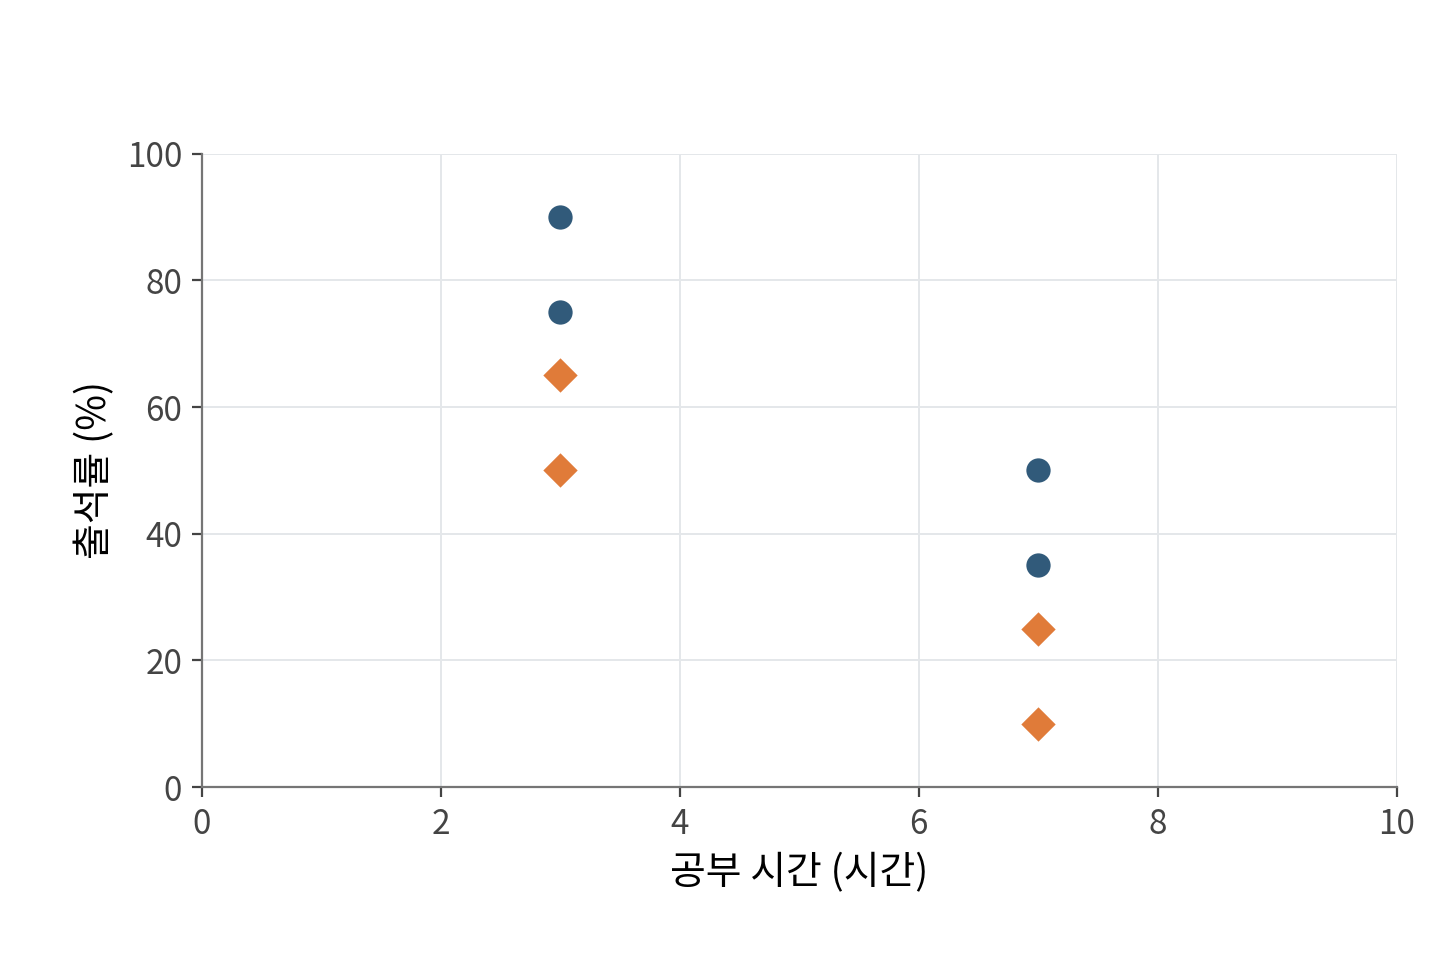
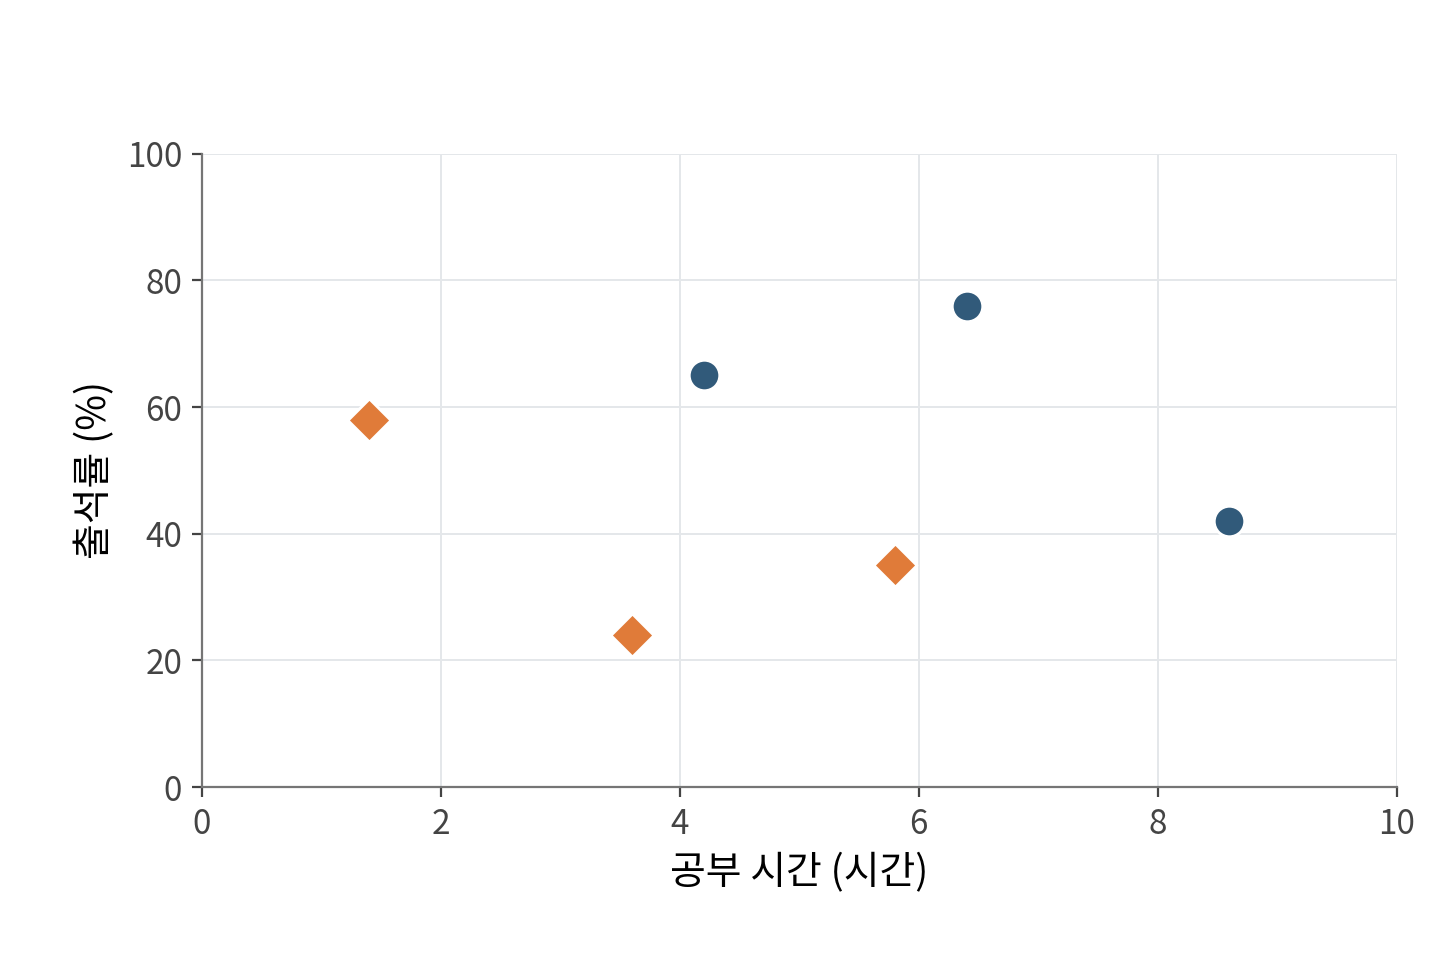
docs: spread six students across classification plots

diff --git a/scripts/figures/ch05_linear_classification.py b/scripts/figures/ch05_linear_classification.py
@@ -1,4 +1,4 @@
-"""학생 8명의 데이터와 유닛 스텝·시그모이드 분류 경계를 그린다.
+"""학생 6명의 데이터와 유닛 스텝·시그모이드 분류 경계를 그린다.
 
 실행: python3 scripts/figures/ch05_linear_classification.py
 동일한 점수 z = x1 + x2 / 10 - 10에서 unit step의 기준은 z=0,
@@ -43,7 +43,7 @@ def draw_data(ax):
         (PASS, "o", PASS_COLOR), (FAIL, "D", FAIL_COLOR)
     ):
         values = np.asarray(samples)
-        ax.scatter(values[:, 0], values[:, 1], s=95, marker=marker,
+        ax.scatter(values[:, 0], values[:, 1], s=120, marker=marker,
                    color=color, edgecolors="white", linewidths=1, zorder=3)
     ax.set(xlim=(0, 10), ylim=(0, 100), xticks=[0, 2, 4, 6, 8, 10],
            yticks=[0, 20, 40, 60, 80, 100],
@@ -91,7 +91,7 @@ if __name__ == "__main__":
     configure_font()
     OUT.mkdir(parents=True, exist_ok=True)
     DIAGRAMS.mkdir(parents=True, exist_ok=True)
-    # Keep the existing editable draw.io originals on the same eight students.
+    # Keep the editable draw.io originals on the same six students.
     perceptron(False)
     perceptron(True)
     save_single("perceptron-data")

diff --git a/scripts/figures/ch04_classification_drawio.py b/scripts/figures/ch04_classification_drawio.py
@@ -150,8 +150,8 @@ def frange(a, b, n):
 
 
 # 합격: (공부 시간, 출석률 %) / 불합격. 경계 출석률 = 100 - 10 × 공부 시간 으로 완벽히 갈린다.
-PASS = [(3, 75), (3, 90), (7, 35), (7, 50)]
-FAIL = [(3, 65), (3, 50), (7, 25), (7, 10)]
+PASS = [(4.2, 65), (6.4, 76), (8.6, 42)]
+FAIL = [(5.8, 35), (3.6, 24), (1.4, 58)]
 assert all(a > 100 - 10 * h for h, a in PASS) and all(a < 100 - 10 * h for h, a in FAIL)
 
 

diff --git a/site/src/content/notes/Machine Learning｜Deep Learning/deeplearning_05.md b/site/src/content/notes/Machine Learning｜Deep Learning/deeplearning_05.md
@@ -23,9 +23,9 @@ featured: false
 ## 2. 퍼셉트론으로 이진분류
 
 퍼셉트론을 사용하여 공부 시간과 출석률로 시험 합격(1)과 불합격(0)을 예측해 보겠습니다.
-입력노드 $x_1$에는 공부 시간과 $x_2$에는 출석률을 입력합니다. 학생 8명을 예시로 보겠습니다. 파란 원은 합격, 주황 마름모는 불합격입니다.
+입력노드 $x_1$에는 공부 시간과 $x_2$에는 출석률을 입력합니다. 학생 6명을 예시로 보겠습니다. 파란 원은 합격, 주황 마름모는 불합격입니다.
 
-<img src="../../../../public/images/notes/easy-deep-learning-ch04/perceptron-data.png" alt="공부 시간과 출석률 평면의 합격 학생 4명(파란 원)과 불합격 학생 4명(주황 마름모). 같은 공부 시간에서 경계에 가까운 학생과 먼 학생을 비교할 수 있는 산점도" loading="lazy" width="560" />
+<img src="../../../../public/images/notes/easy-deep-learning-ch04/perceptron-data.png" alt="공부 시간과 출석률 평면의 합격 학생 3명(파란 원)과 불합격 학생 3명(주황 마름모). 공부 시간과 출석률을 다르게 배치해 경계에 가까운 학생과 먼 학생을 구분한 산점도" loading="lazy" width="560" />
 
 퍼셉트론은 입력값들을 종합한 점수가 기준선(0)을 넘으면 1, 넘지 못하면 0으로 판정하는 **유닛 스텝 함수(Unit Step Function)** 를 사용합니다.
 <img src="../../../../public/images/notes/easy-deep-learning-ch04/unit-step.svg" alt="입력이 0보다 작으면 0, 0 이상이면 1을 출력하는 유닛 스텝 함수 그래프" loading="lazy" width="560" />
@@ -42,7 +42,7 @@ featured: false
 
 학생들의 데이터를 반복해서 확인하며 합격과 불합격을 나누는 경계를 찾습니다.
 
-<img src="../../../../public/images/notes/easy-deep-learning-ch04/perceptron-boundary.png" alt="학생 8명의 데이터에서 유닛 스텝의 보라색 분류 경계 직선이 합격 학생 4명과 불합격 학생 4명을 나누는 그래프" loading="lazy" width="560" />
+<img src="../../../../public/images/notes/easy-deep-learning-ch04/perceptron-boundary.png" alt="학생 6명의 데이터에서 유닛 스텝의 보라색 분류 경계 직선이 합격 학생 3명과 불합격 학생 3명을 나누는 그래프" loading="lazy" width="560" />
 
 ### 계단 함수의 한계
 
@@ -108,7 +108,7 @@ $$
 
 같은 점수식에서 유닛 스텝의 기준 $z=0$과 시그모이드의 기준 $p=0.5$는 같은 분류 경계를 만듭니다.
 
-<img src="../../../../public/images/notes/easy-deep-learning-ch04/unit-step-sigmoid-boundary.png" alt="같은 학생 8명과 점수식을 사용한 선형분류 비교. 왼쪽 유닛 스텝의 보라색 경계와 오른쪽 시그모이드의 초록색 경계가 같은 위치에서 합격과 불합격을 나눈다" loading="lazy" width="720" height="346" />
+<img src="../../../../public/images/notes/easy-deep-learning-ch04/unit-step-sigmoid-boundary.png" alt="같은 학생 6명과 점수식을 사용한 선형분류 비교. 왼쪽 유닛 스텝의 보라색 경계와 오른쪽 시그모이드의 초록색 경계가 같은 위치에서 합격과 불합격을 나눈다" loading="lazy" width="720" height="346" />
 
 
 ### 직선으로 나눌 수 없는 데이터
